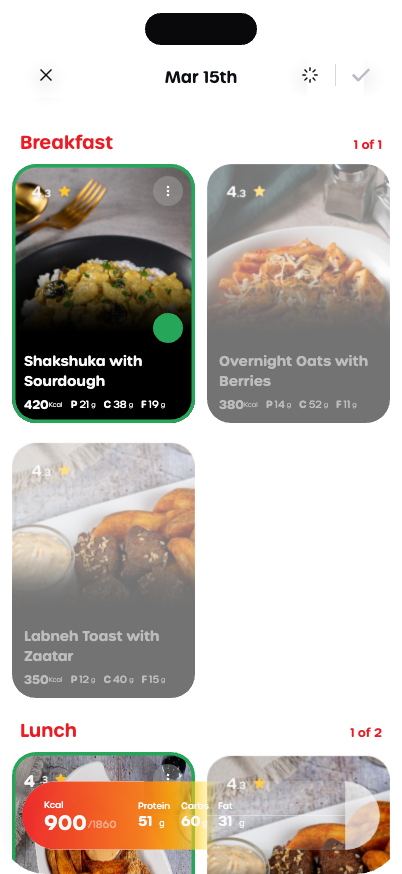
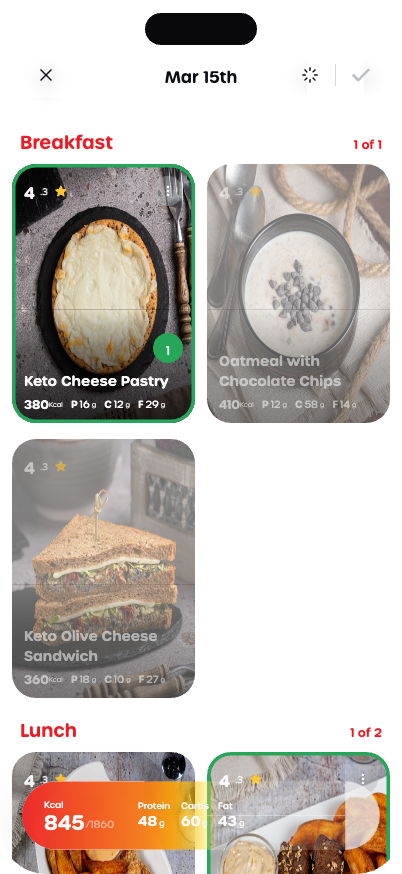
Meal Selector: real Figma dish photos + single-gradient gauge + drawn red check
- Extracted ALL 16 full-res dish photos + real names from the flattened
  frame via forceCode design context — every card is now a clean photo
  with the standard Figma gradient; all crop/scrim workarounds deleted
- Gauge: removed the flare band (read as two layers chasing); one tri-tone
  gradient whose warm stops slide toward the tip while filling
- Confirm check: container stays glass — the red check draws itself over
  the gray disabled mark when the plate completes
- Fresh hub preview

diff --git a/meal-select/index.html b/meal-select/index.html
@@ -125,9 +125,12 @@
   .dual button svg { width: 18px; height: 18px; display: block; pointer-events: none; }
   .dual .sep { width: 1px; height: 22px; background: rgba(11,14,18,.16); flex: none; }
   .dual .dcheck { cursor: default; }
-  .dual .dcheck svg path { stroke: #b9bcc2; transition: stroke .3s ease; }
-  .dual .dcheck.on { background: #ed1c24; cursor: pointer; }
-  .dual .dcheck.on svg path { stroke: #fff; }
+  .dual .dcheck.on { cursor: pointer; }
+  .dual .dcheck svg .ck-base { stroke: #b9bcc2; }
+  .dual .dcheck svg .ck-fill { stroke: #ed1c24; stroke-dasharray: 1 1;
+    stroke-dashoffset: 1; opacity: 0;
+    transition: stroke-dashoffset .55s cubic-bezier(.3,.7,.3,1.08), opacity .05s; }
+  .dual .dcheck.on svg .ck-fill { stroke-dashoffset: 0; opacity: 1; }
   /* iOS alert: clear confirmation */
   .modal-veil { position: absolute; inset: 0; z-index: 60; background: rgba(0,0,0,.28);
     display: flex; align-items: center; justify-content: center;
@@ -190,7 +193,6 @@
     transition: border-width .54s cubic-bezier(.633,1.9,.761,1.433); }
   .card.sel .sel-border { border-width: 3.5px; }
   .card.dim { opacity: .55; filter: saturate(.65); }
-  .card.bk .grad { display: none; }
 
   .card .toprow { position: absolute; left: 12px; right: 12px; top: 12px; z-index: 4;
     display: flex; align-items: flex-start; justify-content: space-between; pointer-events: none; }
@@ -411,7 +413,10 @@
             </button>
             <span class="sep"></span>
             <button class="dcheck" id="confirmBtn" aria-label="Confirm">
-              <svg viewBox="0 0 15.5 11.5" fill="none"><path d="M1.25 6.05L5.38636 10.25L14.25 1.25" stroke="#0B0E12" stroke-width="2.2" stroke-linecap="round" stroke-linejoin="round"/></svg>
+              <svg viewBox="0 0 15.5 11.5" fill="none">
+                <path class="ck-base" d="M1.25 6.05L5.38636 10.25L14.25 1.25" stroke-width="2.2" stroke-linecap="round" stroke-linejoin="round"/>
+                <path class="ck-fill" d="M1.25 6.05L5.38636 10.25L14.25 1.25" pathLength="1" stroke-width="2.2" stroke-linecap="round" stroke-linejoin="round"/>
+              </svg>
             </button>
           </div>
         </div>
@@ -458,29 +463,30 @@
 /* ================= data ================= */
 const DISHES = {
   breakfast: [
-    { n: 'Shakshuka with Sourdough', kcal: 420, p: 21, c: 38, f: 19, r: '4.3', img: 'dish-3.jpg?v=4', bk: 1 },
-    { n: 'Overnight Oats with Berries', kcal: 380, p: 14, c: 52, f: 11, r: '4.3', img: 'dish-4.jpg?v=4', bk: 1 },
-    { n: 'Labneh Toast with Zaatar', kcal: 350, p: 12, c: 40, f: 15, r: '4.3', img: 'dish-2.jpg?v=4', bk: 1 },
+    { n: 'Keto Cheese Pastry', kcal: 380, p: 16, c: 12, f: 29, r: '4.3', img: 'm-cheesepastry.jpg' },
+    { n: 'Oatmeal with Chocolate Chips', kcal: 410, p: 12, c: 58, f: 14, r: '4.3', img: 'm-oatmeal.jpg' },
+    { n: 'Keto Olive Cheese Sandwich', kcal: 360, p: 18, c: 10, f: 27, r: '4.3', img: 'm-olivesand.jpg' },
   ],
   lunch: [
-    { n: 'Baked Chicken Fingers with Wedges', kcal: 480, p: 30, c: 22, f: 12, r: '4.3', img: 'dish-1.jpg' },
-    { n: 'Chicken Machbous with tomato sauce', kcal: 465, p: 32, c: 48, f: 14, r: '4.3', img: 'dish-2.jpg?v=4', bk: 1 },
-    { n: 'Thai Chicken Curry with Cube Potato', kcal: 440, p: 28, c: 41, f: 16, r: '4.3', img: 'dish-3.jpg?v=4', bk: 1 },
-    { n: 'Grilled Chicken with Garfelo Pasta', kcal: 452, p: 35, c: 44, f: 12, r: '4.3', img: 'dish-4.jpg?v=4', bk: 1 },
+    { n: 'Baked Chicken Fingers with Wedges', kcal: 480, p: 30, c: 22, f: 12, r: '4.3', img: 'm-fingers.jpg' },
+    { n: 'Chicken Machbous with tomato sauce', kcal: 465, p: 32, c: 48, f: 14, r: '4.3', img: 'm-machbous.jpg' },
+    { n: 'Thai Chicken Curry with Cube Potato', kcal: 440, p: 28, c: 41, f: 16, r: '4.3', img: 'm-thaicurry.jpg' },
+    { n: 'Grilled Chicken with Garfelo Pasta', kcal: 452, p: 35, c: 44, f: 12, r: '4.3', img: 'm-garfelo.jpg' },
   ],
   dinner: [
-    { n: 'Seared Salmon with Greens', kcal: 430, p: 34, c: 18, f: 24, r: '4.3', img: 'dish-4.jpg?v=4', bk: 1 },
-    { n: 'Beef Tenderloin with Mash', kcal: 465, p: 38, c: 30, f: 18, r: '4.3', img: 'dish-2.jpg?v=4', bk: 1 },
-    { n: 'Halloumi Quinoa Bowl', kcal: 410, p: 22, c: 43, f: 17, r: '4.3', img: 'dish-3.jpg?v=4', bk: 1 },
+    { n: 'Yogurt Chicken Salad', kcal: 420, p: 34, c: 21, f: 20, r: '4.3', img: 'm-yogurtchicken.jpg' },
+    { n: 'Shrimp Salad with Dill', kcal: 380, p: 31, c: 14, f: 19, r: '4.3', img: 'm-shrimpdill.jpg' },
+    { n: 'Chicken Pasta Salad', kcal: 445, p: 29, c: 42, f: 15, r: '4.3', img: 'm-pastasalad.jpg' },
   ],
   snacks: [
-    { n: 'Protein Energy Bites', kcal: 160, p: 9, c: 14, f: 8, r: '4.3', img: 'dish-1.jpg' },
-    { n: 'Greek Yogurt with Honey', kcal: 140, p: 11, c: 16, f: 3, r: '4.3', img: 'dish-4.jpg?v=4', bk: 1 },
-    { n: 'Spiced Nuts Mix', kcal: 180, p: 6, c: 8, f: 14, r: '4.3', img: 'dish-2.jpg?v=4', bk: 1 },
+    { n: 'Strawberry Rocca Salad with Feta', kcal: 210, p: 7, c: 16, f: 13, r: '4.3', img: 'm-rocca.jpg' },
+    { n: 'Keto Zoodles Salad', kcal: 180, p: 6, c: 9, f: 14, r: '4.3', img: 'm-zoodles.jpg' },
+    { n: 'Chocolate Dipped Pineapple', kcal: 190, p: 3, c: 32, f: 6, r: '4.3', img: 'm-chocpineapple.jpg' },
   ],
   dessert: [
-    { n: 'Date & Cacao Brownie', kcal: 210, p: 6, c: 28, f: 9, r: '4.3', img: 'dish-3.jpg?v=4', bk: 1 },
-    { n: 'Chia Mango Pudding', kcal: 190, p: 7, c: 26, f: 7, r: '4.3', img: 'dish-1.jpg' },
+    { n: 'Chocolate Raspberry', kcal: 230, p: 5, c: 26, f: 12, r: '4.3', img: 'm-chocraspberry.jpg' },
+    { n: 'Chocolate Pudding', kcal: 240, p: 6, c: 30, f: 11, r: '4.3', img: 'm-chocpudding.jpg' },
+    { n: 'Dark Chocolate Donut', kcal: 280, p: 6, c: 34, f: 14, r: '4.3', img: 'm-donut.jpg' },
   ],
 };
 const CATS = [
@@ -531,16 +537,15 @@ function buildScreen() {
 function makeCard(cat, d, i) {
   const key = cat.id + ':' + i;
   const el = document.createElement('div');
-  el.className = 'card' + (d.bk ? ' bk' : '');
+  el.className = 'card';
   el.dataset.key = key; el.dataset.cat = cat.id;
   el.innerHTML =
     '<div class="photo"><img src="' + d.img + '" alt=""></div>' +
     '<div class="grad"></div>' +
     '<div class="sel-border"></div>' +
     '<div class="toprow">' +
-      (d.bk ? '<div class="rating"></div>' :
-        '<div class="rating"><span class="r-big">' + d.r.split('.')[0] + '</span>' +
-        '<span class="r-dec">.' + d.r.split('.')[1] + '</span>' + ICON.star + '</div>') +
+      '<div class="rating"><span class="r-big">' + d.r.split('.')[0] + '</span>' +
+      '<span class="r-dec">.' + d.r.split('.')[1] + '</span>' + ICON.star + '</div>' +
       '<button class="kebab" aria-label="More">' + ICON.kebab + '</button>' +
     '</div>' +
     '<div class="details">' +
@@ -1053,14 +1058,17 @@ function paintGauge() {
   /* one soft bar: gradient fill with a wide blurred leading edge */
   g.beginPath();
   g.rect(0, gy, fillW, gh);
+  /* one tri-tone gradient spanning the fill; while moving, the warm stops
+     slide forward slightly so the tip glows — same single layer */
+  const shift = Math.min(.14, fx.speed * 260);
   const grad = g.createLinearGradient(0, 0, fillW, 0);
   grad.addColorStop(0, 'rgba(238,32,35,.94)');
-  grad.addColorStop(.62, 'rgba(245,120,19,.94)');
-  grad.addColorStop(.96, 'rgba(253,215,2,.94)');
+  grad.addColorStop(Math.max(.3, .62 - shift), 'rgba(245,120,19,.94)');
+  grad.addColorStop(Math.max(.6, .96 - shift), 'rgba(253,215,2,.94)');
+  grad.addColorStop(1, 'rgba(253,222,60,.94)');
   g.fillStyle = grad;
   g.fill();
   if (fx.frac < .985) {
-    /* the edge diffuses while the fill flows and condenses as it settles */
     const soft = 46 + Math.min(74, fx.speed * 16000);
     g.globalCompositeOperation = 'destination-out';
     const f = g.createLinearGradient(fillW - soft, 0, fillW, 0);
@@ -1070,19 +1078,6 @@ function paintGauge() {
     g.fillStyle = f;
     g.fillRect(fillW - soft, gy, soft + 1, gh);
     g.globalCompositeOperation = 'source-over';
-    /* motion flare: the edge runs hot while flowing, cools at rest */
-    const heat = Math.min(1, fx.speed * 900);
-    if (heat > .04) {
-      const hw = soft * .9;
-      const hg = g.createLinearGradient(fillW - hw, 0, fillW, 0);
-      hg.addColorStop(0, 'rgba(255,240,150,0)');
-      hg.addColorStop(.75, 'rgba(255,236,140,' + (.55 * heat) + ')');
-      hg.addColorStop(1, 'rgba(255,250,200,0)');
-      g.globalCompositeOperation = 'lighter';
-      g.fillStyle = hg;
-      g.fillRect(fillW - hw, gy, hw + 1, gh);
-      g.globalCompositeOperation = 'source-over';
-    }
   }
   g.restore();
 }
